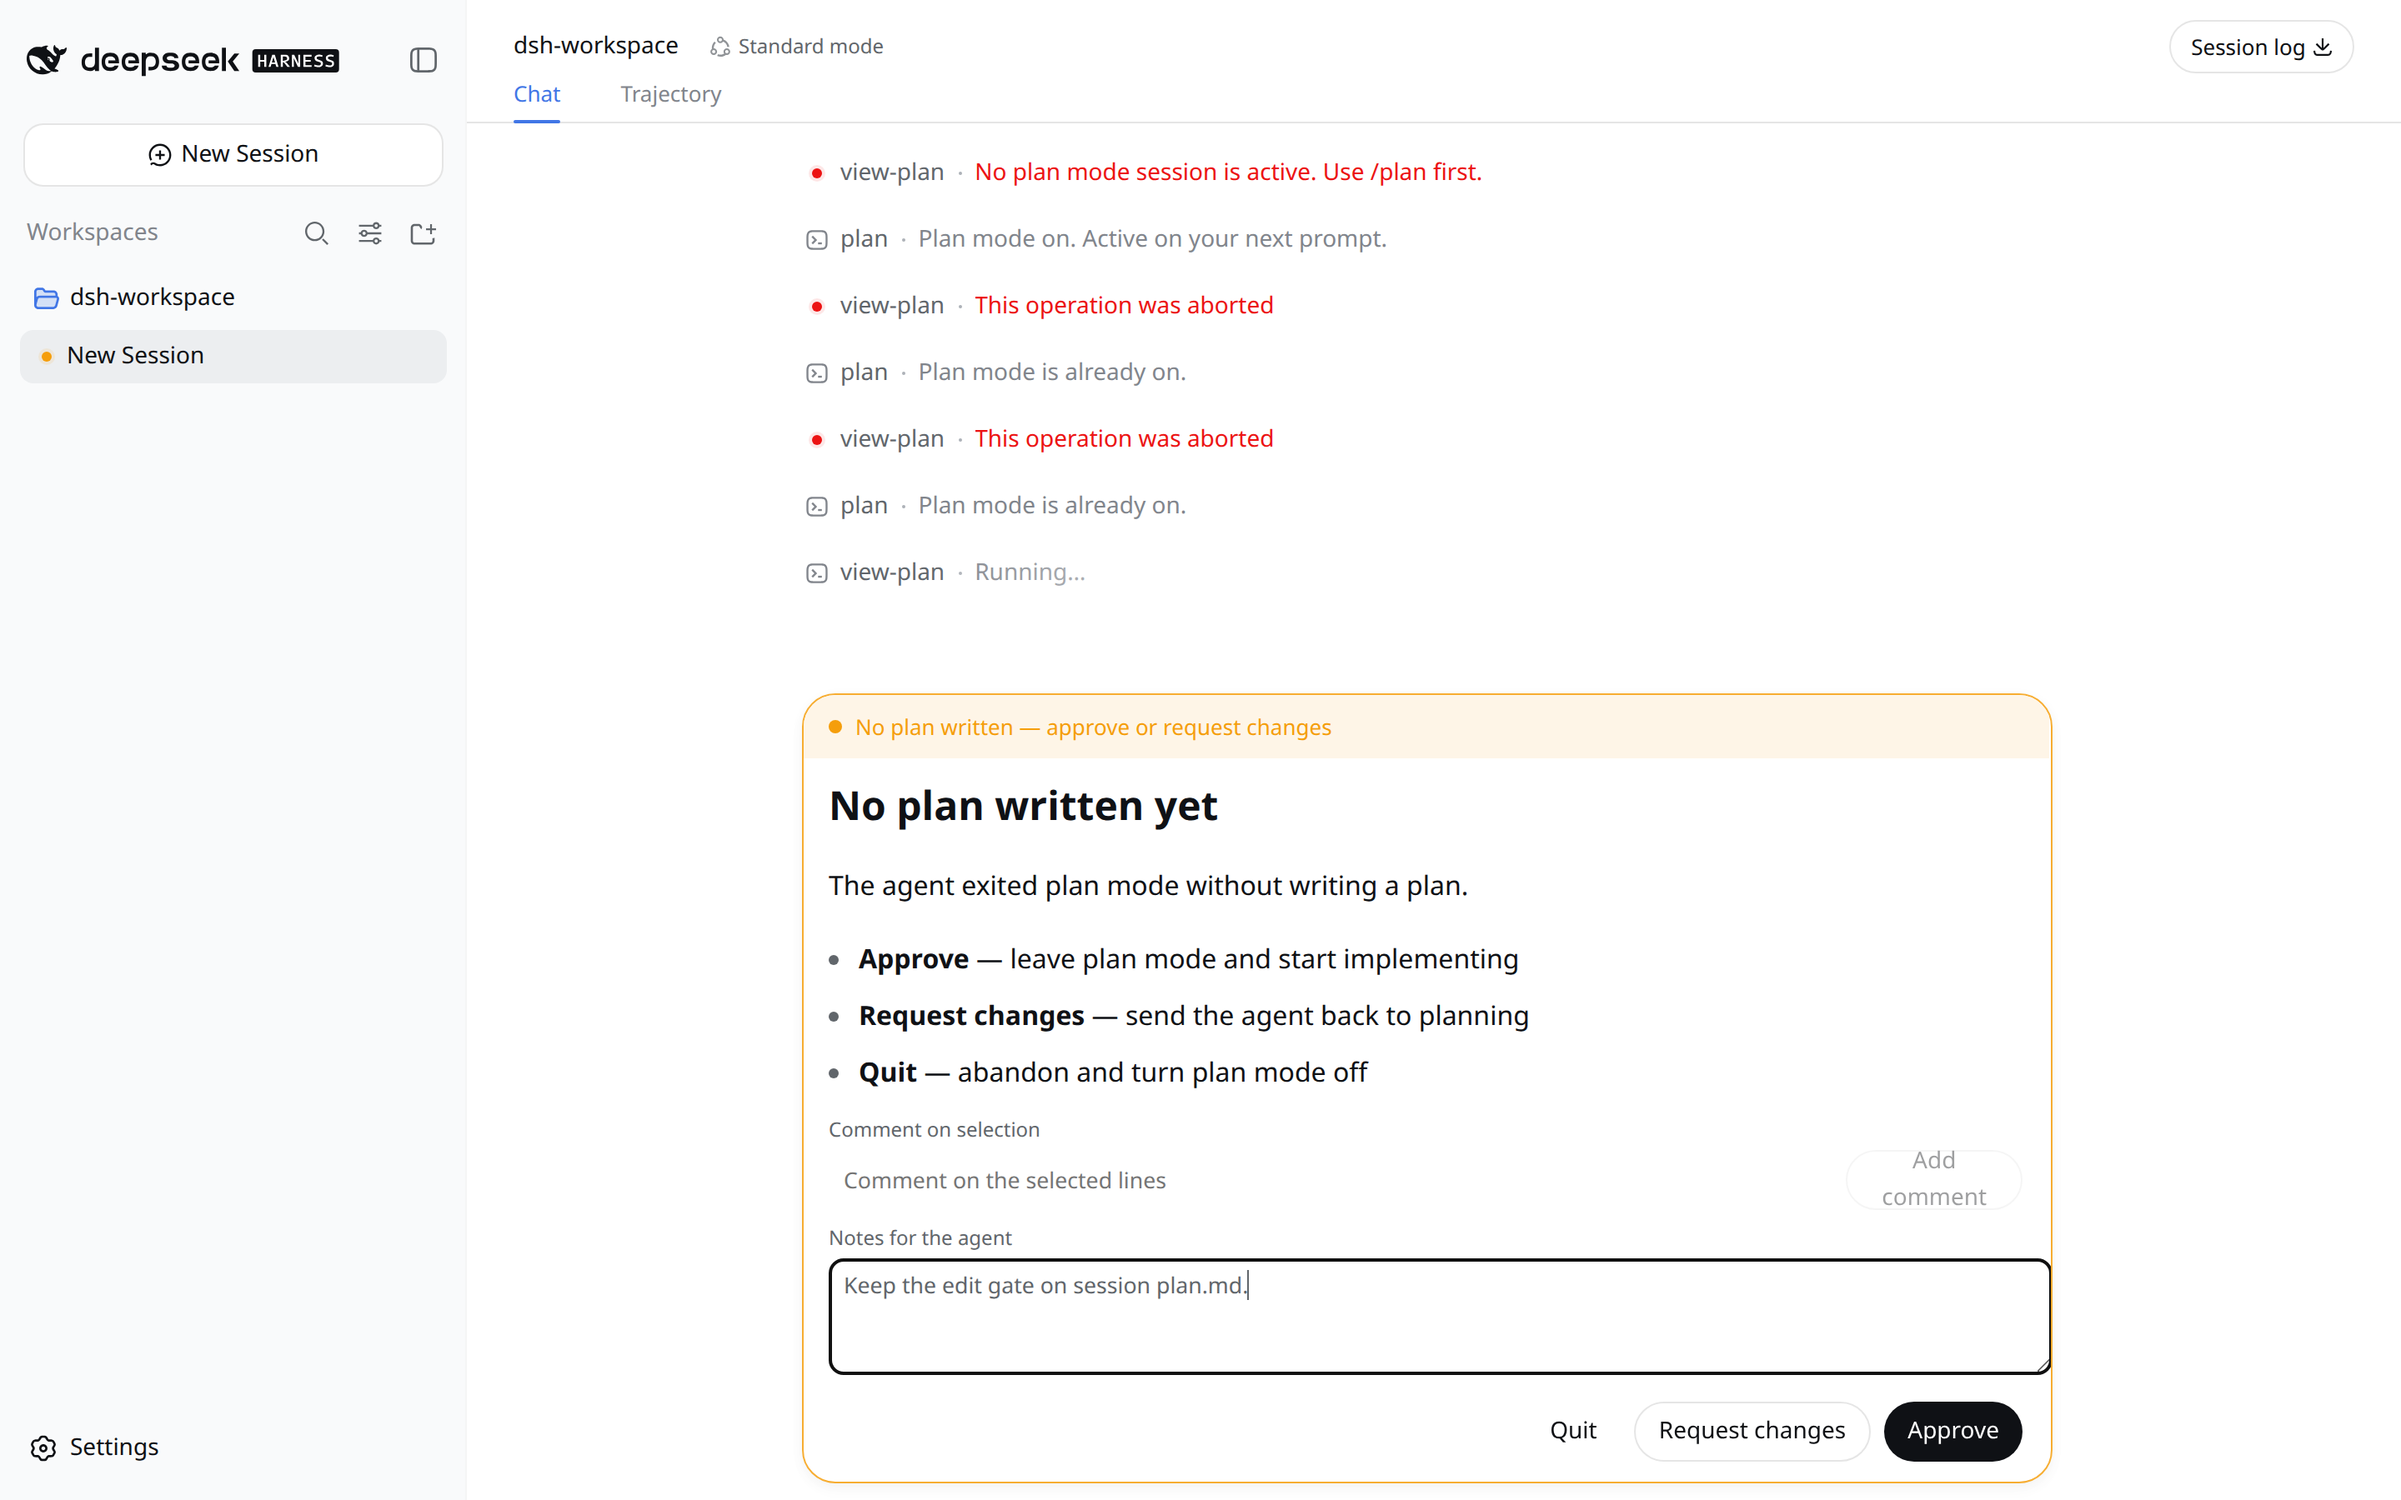
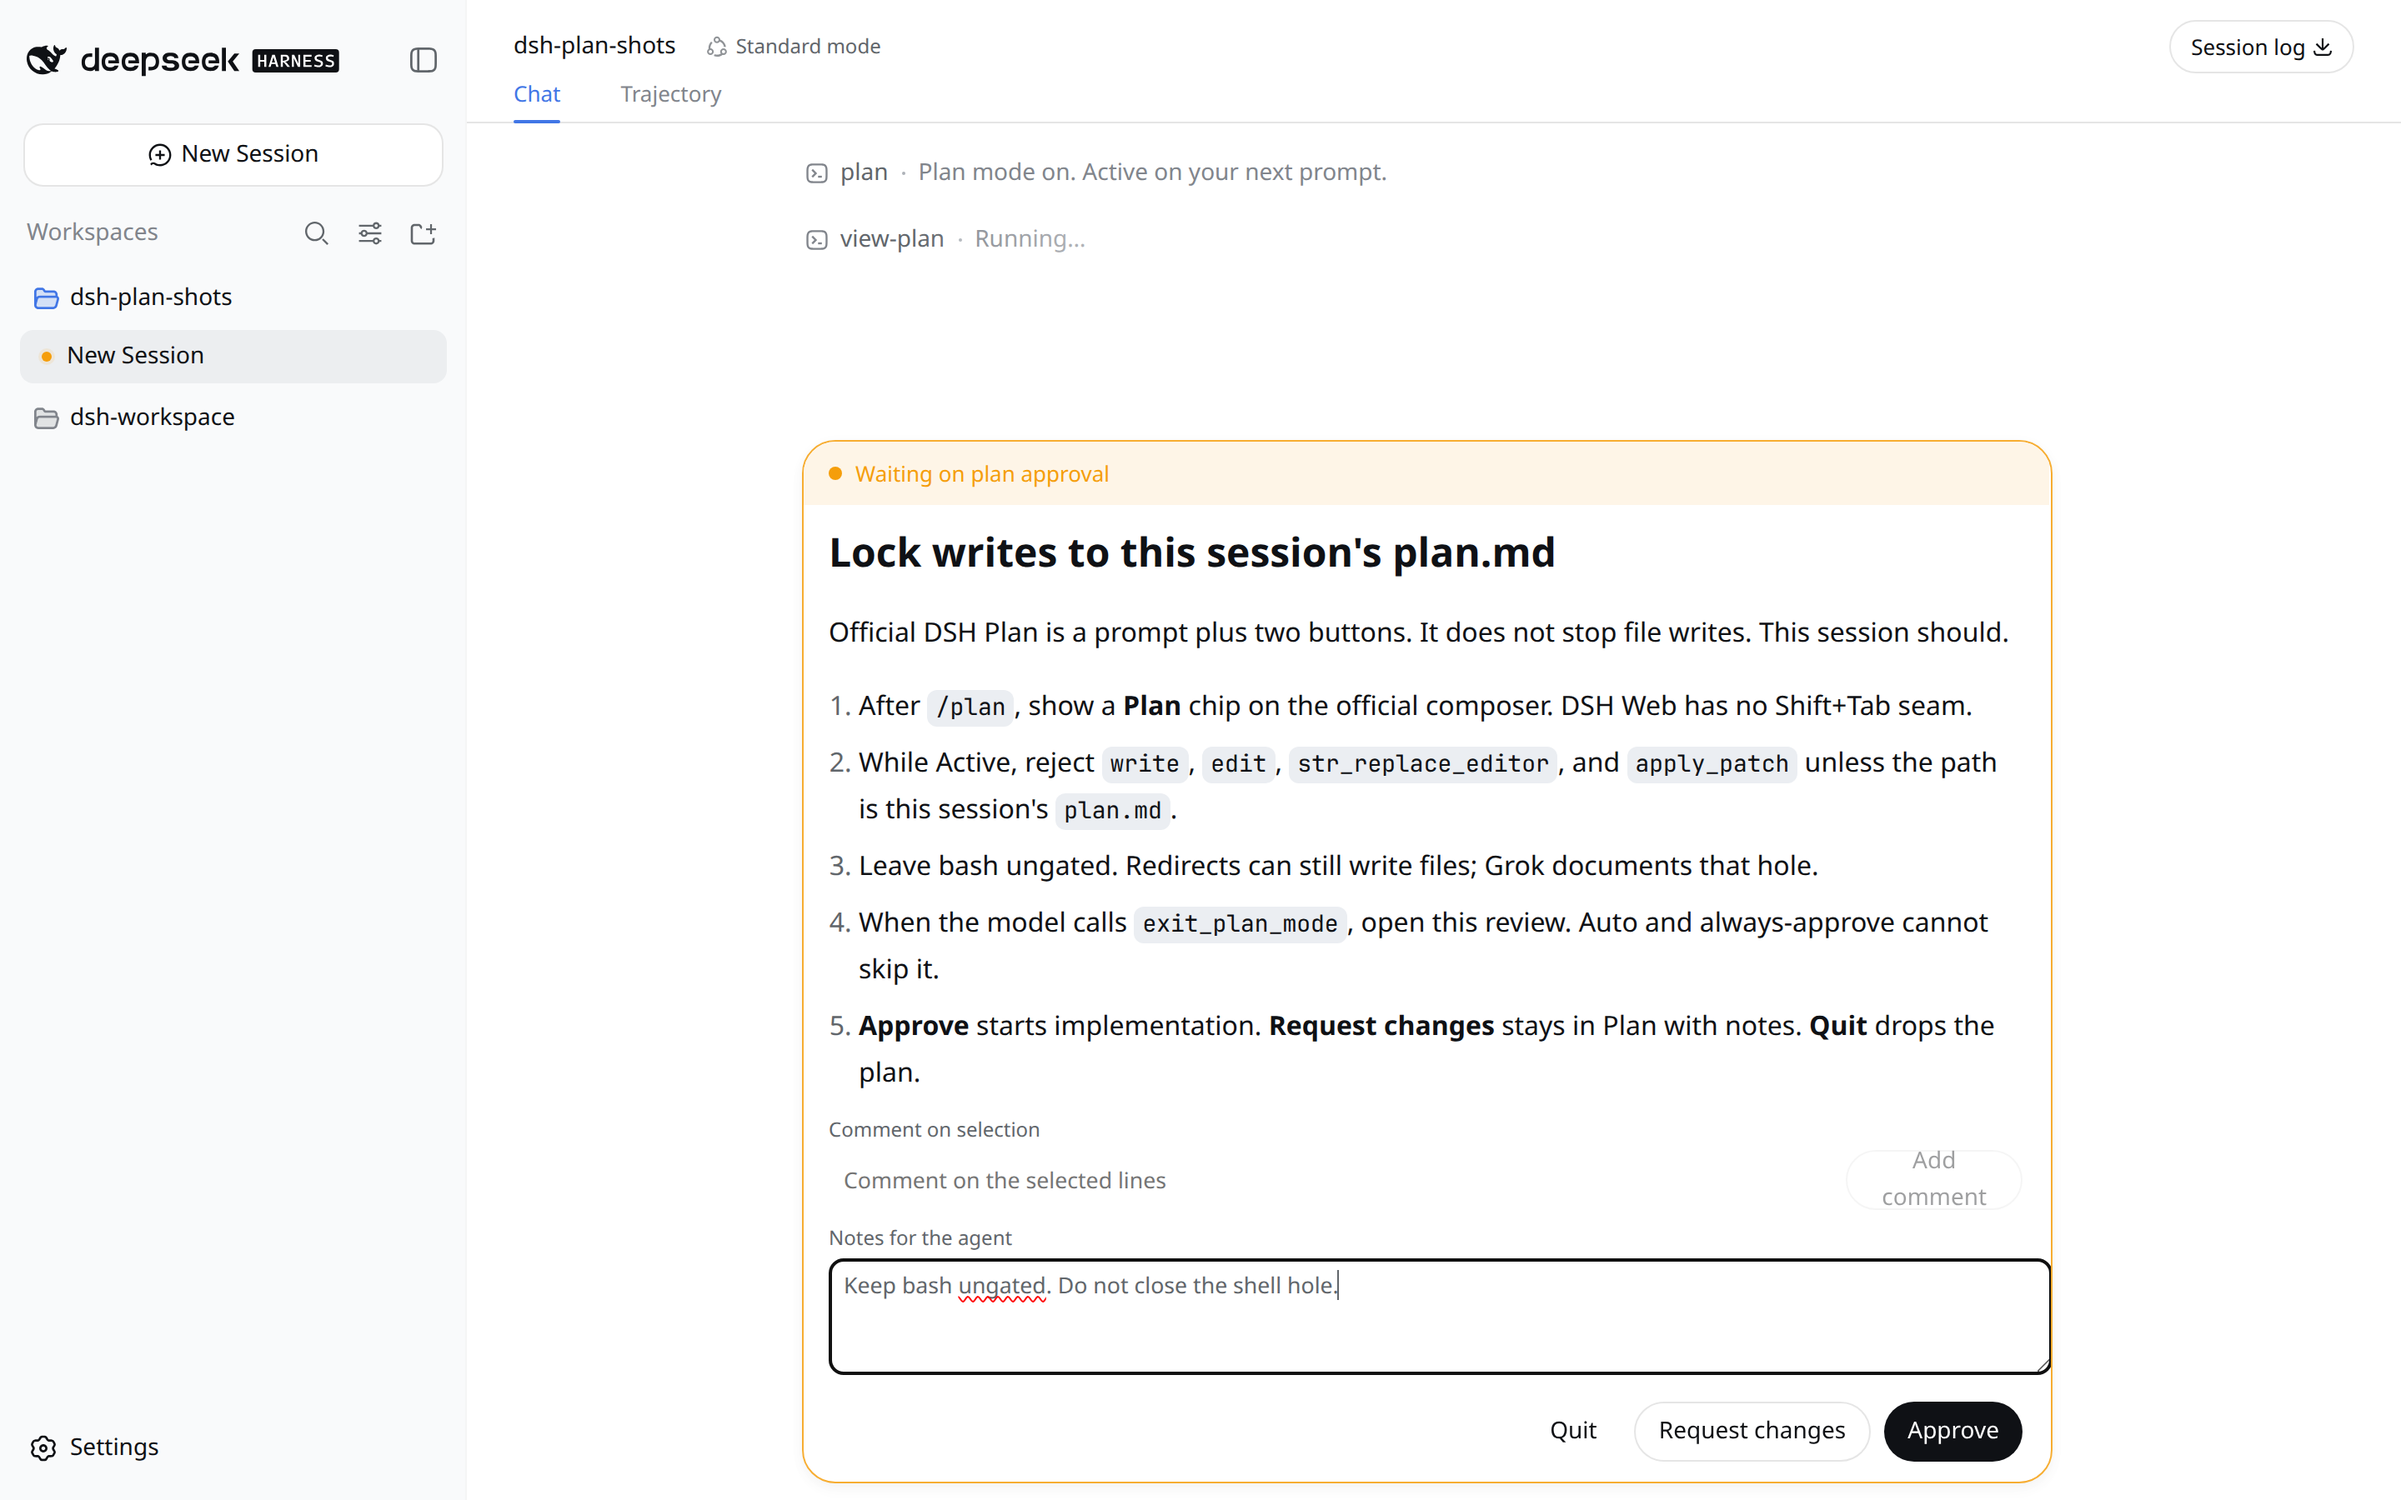
Show a written plan on the official review card.
Recapture plan-review stills and the GIF from official DSH Web after
writing plan.md (title plus five steps). Frame 0 stays the composer
with the Plan chip. Drop the isolated terminal gate walkthrough.

diff --git a/README.md b/README.md
@@ -24,11 +24,11 @@ DSH Web 没有 Shift+Tab。`/plan` 之后，输入框上出现 **Plan**。点 ×
 
 ### 审批卡
 
-`exit_plan_mode` 和 `/view-plan` 打开同一张卡。划词可以写批注，下面还能给模型留说明。空 plan 也开这张面。
+`exit_plan_mode` 和 `/view-plan` 打开同一张卡，读的是磁盘上已经写好的 `plan.md`。划词可以写批注，下面还能给模型留说明。空 plan 也开这张面，但产品要看的是写好的计划。
 
-![`/view-plan` 打开的审批卡，盖在官方 WebUI 上](docs/screenshots/plan-review.png)
+![`/view-plan` 打开写好的 plan.md，盖在官方 WebUI 上](docs/screenshots/plan-review.png)
 
-![空 plan 也要你点一下，可以给模型留说明](docs/screenshots/plan-review-comments.png)
+![同一张卡，下面可以给模型留说明](docs/screenshots/plan-review-comments.png)
 
 - **Approve** — 离开 Plan，按 `plan.md` 开始做
 - **Request changes** — 说明 / 行批注留下来，继续停在 Plan
@@ -36,9 +36,7 @@ DSH Web 没有 Shift+Tab。`/plan` 之后，输入框上出现 **Plan**。点 ×
 
 ### 编辑闸
 
-Active 时，`write` / `edit` / `str_replace_editor` / `apply_patch` 只能动 session 的 `plan.md`。下面是本仓库状态机和闸的真实输出，不是编的：
-
-![tracker / gate / reminder 的真实运行输出](docs/screenshots/gate-walkthrough.png)
+Active 时，`write` / `edit` / `str_replace_editor` / `apply_patch` 只能动 session 的 `plan.md`。
 
 bash 不闸。重定向可以写文件。Grok 文档写明闸的是编辑工具，不是 shell，这里不“修”这个洞。子代理（`origin === 'subagent'` 或 `delegationDepth > 0`）也不走父级这道闸。
 

diff --git a/README.en.md b/README.en.md
@@ -24,11 +24,11 @@ DSH Web has no Shift+Tab. After `/plan`, a **Plan** pill sits on the composer. C
 
 ### Review card
 
-`exit_plan_mode` and `/view-plan` open the same card. Select lines to comment; leave notes for the model. An empty plan still opens it.
+`exit_plan_mode` and `/view-plan` open the same card. It reads the `plan.md` already on disk. Select lines to comment; leave notes for the model. An empty plan still opens the card — the product is reviewing a written plan.
 
-![`/view-plan` review card over the official WebUI](docs/screenshots/plan-review.png)
+![`/view-plan` on a written plan.md, over the official WebUI](docs/screenshots/plan-review.png)
 
-![Empty plan still needs a click; notes stay on the card](docs/screenshots/plan-review-comments.png)
+![Same card, with notes for the model](docs/screenshots/plan-review-comments.png)
 
 - **Approve** — leave Plan and implement `plan.md`
 - **Request changes** — keep Plan on, send notes / line comments back
@@ -36,9 +36,7 @@ DSH Web has no Shift+Tab. After `/plan`, a **Plan** pill sits on the composer. C
 
 ### Edit gate
 
-While Active, `write` / `edit` / `str_replace_editor` / `apply_patch` may only touch the session `plan.md`. This is real output from this repo’s tracker and gate, not a mock transcript:
-
-![Real tracker / gate / reminder output](docs/screenshots/gate-walkthrough.png)
+While Active, `write` / `edit` / `str_replace_editor` / `apply_patch` may only touch the session `plan.md`.
 
 Bash is not gated. Redirects can write files. Grok’s docs gate edit tools, not the shell; this port does not “fix” that. Subagents (`origin === 'subagent'` or `delegationDepth > 0`) do not inherit the parent gate.
 
